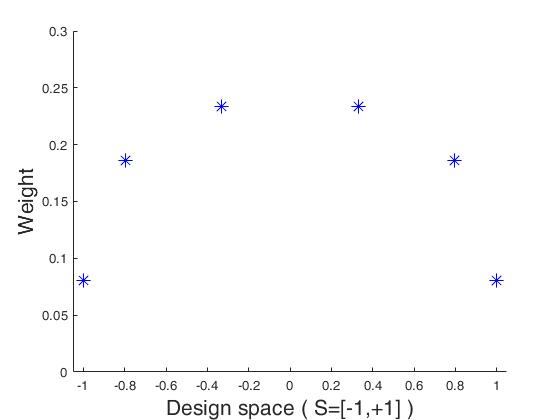
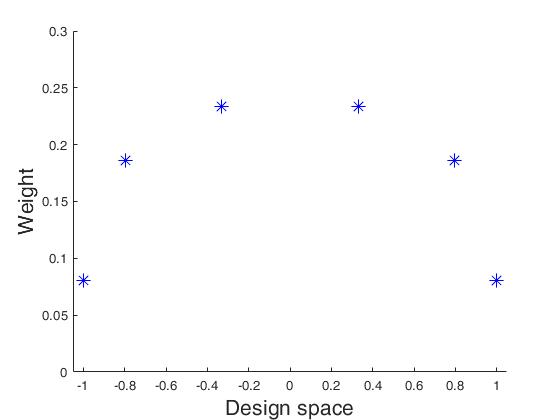
changes

Changed region(s): [[0.2732, 0.9286, 0.7589, 1.0]]

diff --git a/Thesis_Code/D_opt.m b/Thesis_Code/D_opt.m
@@ -8,7 +8,7 @@ function [del , ANS, error] = D_opt(N,t,theta,range,fun)
   sqt = sqrt(t);
   
   %% cvx part
-  cvx_begin
+  cvx_begin quiet
     cvx_precision best
     variables w(N,1) del(1)
     minimize del(1)
@@ -50,19 +50,20 @@ function [del , ANS, error] = D_opt(N,t,theta,range,fun)
   % first plot, plot out the design points
   figure
     stem( u,w,'kd');
-    xlim(new_range); 
+    xlim(new_range);  % increase the domain, so the points wont be on the edge
     ylim([0,1]);
     xlabel('design space','FontSize', 16) % x-axis label
     ylabel('weights','FontSize', 16) % y-axis label
     title('Discretized weight distribution','FontSize', 20)
   
-  % directional derivative plot
+ % directional derivative plot
   fx = @(x) fun(x,theta);
   ff = @(x) trace(B\[1 sqt.*fx(x)' ; sqt.*fx(x)  fx(x)*fx(x)'] ) - (n+1);
+  %ff = @(x) trace(BI* [1 sqrt(t)*fx(x)' ; sqrt(t)*fx(x)  fx(x)*fx(x)'] ) - (n+1);
   
   mini = min(phi_D-q);
   figure
-    h1 = plot(u,phi_D-q,'+'); 
+    h1 = plot(u,phi_D-q,'+'); %discretized
     xlim(new_range);
     ylim([mini+mini/10,1]);
   hold on
@@ -70,13 +71,13 @@ function [del , ANS, error] = D_opt(N,t,theta,range,fun)
     for i =  1:length(u)
       y(i) = ff(u(i));
     end
-    h2 = plot(u,y,'-'); 
+    h2 = plot(u,y,'-'); %function
   hold on
     line(new_range,[0,0],'Color','blue','LineStyle','--');
   hold on
-    h3 = plot(u(kk),zeros(1,length(kk)),'pg'); 
+    h3 = plot(u(kk),zeros(1,length(kk)),'pg'); %supporting points
     legend([h1 h2 h3], 'Discretized','d(x,\theta)','Supporting point');
-    xlabel('design space','FontSize', 16) 
-    ylabel('Directional Derivative','FontSize', 16) 
+    xlabel('design space','FontSize', 16) % x-axis label
+    ylabel('Directional Derivative','FontSize', 16) % y-axis label
   hold off
 end

diff --git a/Thesis_Code/plot/emax_complexity_plot_t.m b/Thesis_Code/plot/emax_complexity_plot_t.m
@@ -10,25 +10,25 @@ D1001 = [4.513202 4.487485  4.592582 4.597348 4.663097]';
 D5001 = [16.188163 16.217196 16.218664 15.991854 16.239503]';
 figure
   h1 = plot(t,D1001,'o-','linewidth',5,'markersize',14,'markerfacecolor','Red');
-  xlabel({'level of asymmetry','(t)'},'FontSize', 16); % x-axis label
-  ylabel({'complexity', '(in seconds)'},'FontSize', 16); % y-axis label
+  xlabel('t','FontSize', 16); % x-axis label
+  ylabel({'Computation time', '(in seconds)'},'FontSize', 16); % y-axis label
   xlim([0, 1]);
   ylim([0, max(D1001)*1.5]);
 figure
   h2 = plot(t,D5001,'o-','linewidth',5,'markersize',14,'markerfacecolor','Red');
-  xlabel({'level of asymmetry','(t)'},'FontSize', 16); % x-axis label
-  ylabel({'complexity', '(in seconds)'},'FontSize', 16); % y-axis label
+  xlabel('t','FontSize', 16); % x-axis label
+  ylabel({'Computation time', '(in seconds)'},'FontSize', 16); % y-axis label
   xlim([0, 1]);
   ylim([0, max(D5001)*1.5]);
 figure
   h3 = plot(t,A1001,'o-','linewidth',5,'markersize',14,'markerfacecolor','Red');
-  xlabel({'level of asymmetry','(t)'},'FontSize', 16); % x-axis label
-  ylabel({'complexity', '(in seconds)'},'FontSize', 16); % y-axis label
+  xlabel('t','FontSize', 16); % x-axis label
+  ylabel({'Computation time', '(in seconds)'},'FontSize', 16); % y-axis label
   xlim([0, 1]);
   ylim([0, max(A1001)*1.5]);
 figure
   h4 = plot(t,A5001,'o-','linewidth',5,'markersize',14,'markerfacecolor','Red');
-  xlabel({'level of asymmetry','(t)'},'FontSize', 16); % x-axis label
-  ylabel({'complexity', '(in seconds)'},'FontSize', 16); % y-axis label
+  xlabel('t','FontSize', 16); % x-axis label
+  ylabel({'Computation time', '(in seconds)'},'FontSize', 16); % y-axis label
   xlim([0, 1]);
   ylim([0, max(A5001)*1.5]);

diff --git a/plot/emax_complexity_plot_t.m b/plot/emax_complexity_plot_t.m
@@ -10,25 +10,25 @@ D1001 = [4.513202 4.487485  4.592582 4.597348 4.663097]';
 D5001 = [16.188163 16.217196 16.218664 15.991854 16.239503]';
 figure
   h1 = plot(t,D1001,'o-','linewidth',5,'markersize',14,'markerfacecolor','Red');
-  xlabel({'level of asymmetry','(t)'},'FontSize', 16); % x-axis label
-  ylabel({'complexity', '(in seconds)'},'FontSize', 16); % y-axis label
+  xlabel('t','FontSize', 16); % x-axis label
+  ylabel({'Computation time', '(in seconds)'},'FontSize', 16); % y-axis label
   xlim([0, 1]);
   ylim([0, max(D1001)*1.5]);
 figure
   h2 = plot(t,D5001,'o-','linewidth',5,'markersize',14,'markerfacecolor','Red');
-  xlabel({'level of asymmetry','(t)'},'FontSize', 16); % x-axis label
-  ylabel({'complexity', '(in seconds)'},'FontSize', 16); % y-axis label
+  xlabel('t','FontSize', 16); % x-axis label
+  ylabel({'Computation time', '(in seconds)'},'FontSize', 16); % y-axis label
   xlim([0, 1]);
   ylim([0, max(D5001)*1.5]);
 figure
   h3 = plot(t,A1001,'o-','linewidth',5,'markersize',14,'markerfacecolor','Red');
-  xlabel({'level of asymmetry','(t)'},'FontSize', 16); % x-axis label
-  ylabel({'complexity', '(in seconds)'},'FontSize', 16); % y-axis label
+  xlabel('t','FontSize', 16); % x-axis label
+  ylabel({'Computation time', '(in seconds)'},'FontSize', 16); % y-axis label
   xlim([0, 1]);
   ylim([0, max(A1001)*1.5]);
 figure
   h4 = plot(t,A5001,'o-','linewidth',5,'markersize',14,'markerfacecolor','Red');
-  xlabel({'level of asymmetry','(t)'},'FontSize', 16); % x-axis label
-  ylabel({'complexity', '(in seconds)'},'FontSize', 16); % y-axis label
+  xlabel('t','FontSize', 16); % x-axis label
+  ylabel({'Computation time', '(in seconds)'},'FontSize', 16); % y-axis label
   xlim([0, 1]);
   ylim([0, max(A5001)*1.5]);

diff --git a/Thesis_Code/plot/Poly_plot/poly_D.m b/Thesis_Code/plot/Poly_plot/poly_D.m
@@ -1,4 +1,4 @@
-% [d , a, e] = D_opt_mod(2001,0,zeros(5,1),[-1,+1],@poly)
+% [d , a, e] = D_opt(2001,0,zeros(5,1),[-1,+1],@poly)
 sz =100;
 %%%%%%%%%%%%%%%%%%%%%%%%%%%%%%%%%%%%%%%%%%%%%%%%%%
 % t = 0.0
@@ -7,29 +7,18 @@ x1= [ -1.0000   -0.7810   -0.4340    0.4340    0.7810    1.0000]';
 y1 = [0.1980    0.1781    0.1238    0.1238    0.1781    0.1980]';
 figure
   h1 = scatter(x1,y1,sz,'Red','*');
-  xlabel('Design space ( S=[-1,+1] )','FontSize', 16); % x-axis label
+  xlabel('Design space','FontSize', 16); % x-axis label
   ylabel('Weight','FontSize', 16); % y-axis label
   xlim([-1.05,1.05]);
   ylim([0.00,0.30]);
 %%%%%%%%%%%%%%%%%%%%%%%%%%%%%%%
-% t = 0.35;
-x2=[-1.0000   -0.7670    -0.3090    0.3090    0.7670    1.0000]';
-y2=[ 0.1737    0.1717     0.1546    0.1546    0.1717    0.1737]';
-%x2 = [-1.0000   -0.7800   -0.4260    0.4260    0.7800    1.0000]';
-%y2 = [ 0.1969    0.1786    0.1246    0.1246    0.1786    0.1969]';
+% t = 0.70;
+x2=[ -1.0000   -0.7760   -0.3980    0.3980    0.7760    1.0000]';
+y2=[  0.1926    0.1794    0.1280    0.1280    0.1794    0.1926]';
+
 figure 
   h2 = scatter(x2,y2,sz,'*','Red');
-  xlabel('Design space ( S=[-1,+1] )','FontSize', 16); % x-axis label
+  xlabel('Design space','FontSize', 16); % x-axis label
   ylabel('Weight','FontSize', 16); % y-axis label
   xlim([-1.05,1.05]);
   ylim([0.00,0.30]);
-
-% 
-%    
-%   x1 = [0.0645;0.5790;5.0000];
-%   y1 = [0;0;0];
-%   h2 = plot(x1,y1,'*','Color','Red');
-%   lgd = legend([h1 h2], 'g(x;\theta)','Support points');
-%   lgd.FontSize = 16;
-%   text(x1,y1+0.05,'$\frac{1}{3}$','Interpreter','latex','FontSize',16);
-% hold off 

diff --git a/Thesis_Code/plot/Poly_plot/poly_A.m b/Thesis_Code/plot/Poly_plot/poly_A.m
@@ -2,24 +2,25 @@
 sz =100;
 col = 'Blue';
 %%%%%%%%%%%%%%%%%%%%%%%%%%%%%%%%%%%%%%%%%%%%%%%%%%
-% t = 0.0
+% t = 0.00
 
 x1 = [ -1.0000   -0.7960   -0.3310    0.3310    0.7960    1.0000]';
 y1 = [ 0.0804    0.1863    0.2333    0.2333    0.1863    0.0804]';
 figure
   h1 = scatter(x1,y1,sz,col,'*');
-  xlabel('Design space ( S=[-1,+1] )','FontSize', 16); % x-axis label
+  xlabel('Design space','FontSize', 16); % x-axis label
   ylabel('Weight','FontSize', 16); % y-axis label
   xlim([-1.05,1.05]);
   ylim([0.00,0.30]);
 %%%%%%%%%%%%%%%%%%%%%%%%%%%%%%%
-% t = 0.35;
-%[d , a, e] = A_opt_mod(2001,0.95,zeros(5,1),[-1,+1],@poly)
-x2=[-1.0000   -0.7900    -0.3030    0.3030    0.7900    1.0000]';
-y2=[ 0.0815    0.1906     0.2279    0.2279    0.1906    0.0815]';
+% t = 0.70;
+%[d , a, e] = A_opt(2001,0.70,zeros(5,1),[-1,+1],@poly)
+
+x2=[ -1.0000   -0.7950   -0.3260    0.3260    0.7950    1.0000]';
+y2=[  0.0829    0.1918    0.2253    0.2253    0.1918    0.0829]';
 figure 
   h2 = scatter(x2,y2,sz,'*',col);
-  xlabel('Design space ( S=[-1,+1] )','FontSize', 16); % x-axis label
+  xlabel('Design space','FontSize', 16); % x-axis label
   ylabel('Weight','FontSize', 16); % y-axis label
   xlim([-1.05,1.05]);
   ylim([0.00,0.30]);

diff --git a/Thesis_Code/plot/gom_loss.m b/Thesis_Code/plot/gom_loss.m
@@ -2,6 +2,6 @@ N =[51, 101, 501, 1001, 2001, 5001 ]';
 Loss = [11.1203, 11.1058,  11.1005, 11.1002, 11.1002, 11.1002];
 figure
   h1 = plot(N,Loss,'o-','linewidth',5,'markersize',14,'markerfacecolor','Red');
-  xlabel({'Space partition','(N)'},'FontSize', 16); % x-axis label
+  xlabel({'Number of design points','(N)'},'FontSize', 16); % x-axis label
   ylabel('Loss function','FontSize', 16); % y-axis label
   ylim([11.09,max(Loss)+0.02]);

diff --git a/Thesis_Code/plot/emax_complexity_plot_N.m b/Thesis_Code/plot/emax_complexity_plot_N.m
@@ -9,5 +9,5 @@ y =  [1.922385 2.925531  3.935194  6.000104 8.367561 11.133859 13.606407...
 
 figure
   h1 = plot(x,y,'o-','linewidth',5,'markersize',14,'markerfacecolor','Red');
-  xlabel({'Space partition','(N)'},'FontSize', 16); % x-axis label
+  xlabel({'Number of design points','(N)'},'FontSize', 16); % x-axis label
   ylabel({'Computation time', '(in seconds)'},'FontSize', 16); % y-axis label

diff --git a/Thesis_Code/p.m b/Thesis_Code/p.m
@@ -1,0 +1,11 @@
+tim = 20;
+tic
+for i = 1:tim
+    display('N is 51, t=0')
+    [d , a, e] = D_opt(51,0,[1,2,3]',[0,5.0],@gompertz);
+end
+toc/tim
+tic
+  display('N is 51, t=0')
+  [d , a, e] = D_opt(51,0,[1,2,3]',[0,5.0],@gompertz);
+toc
